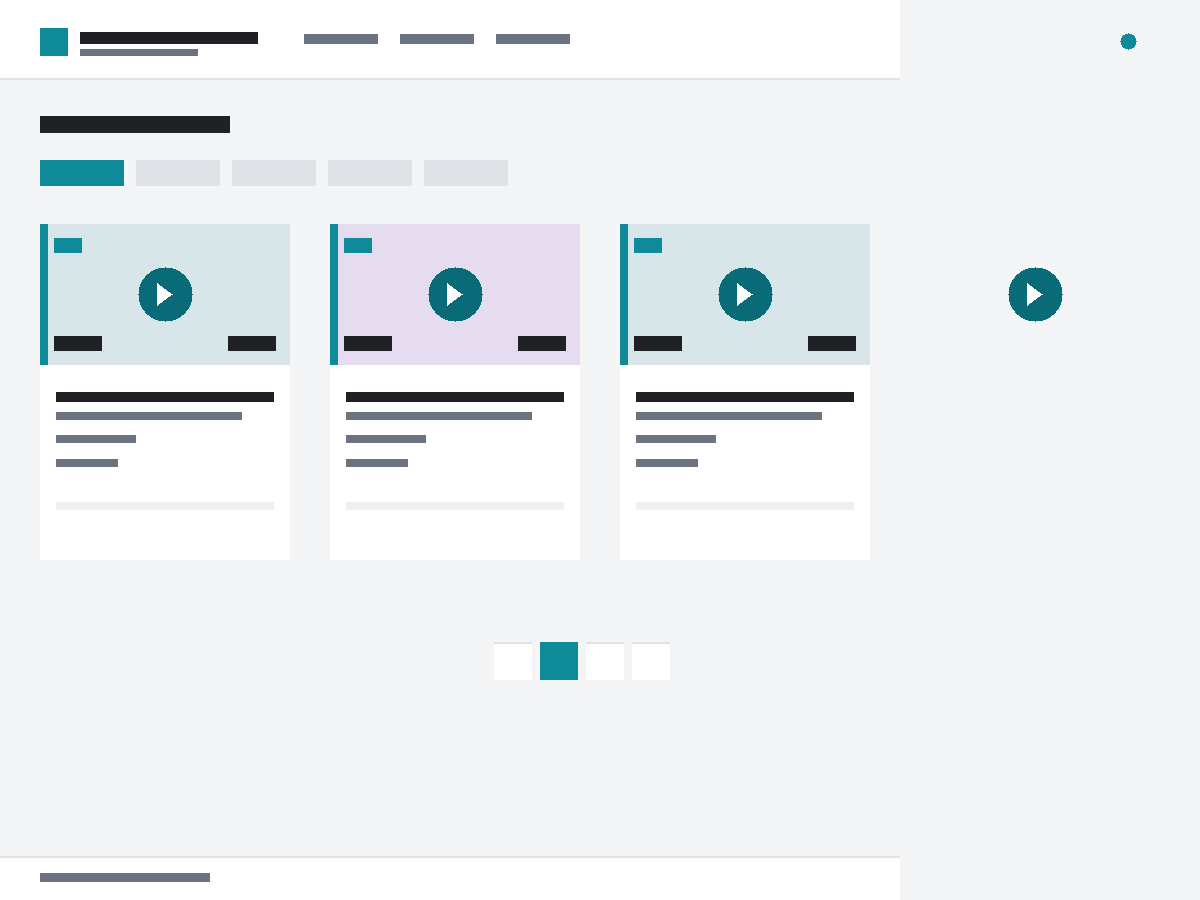
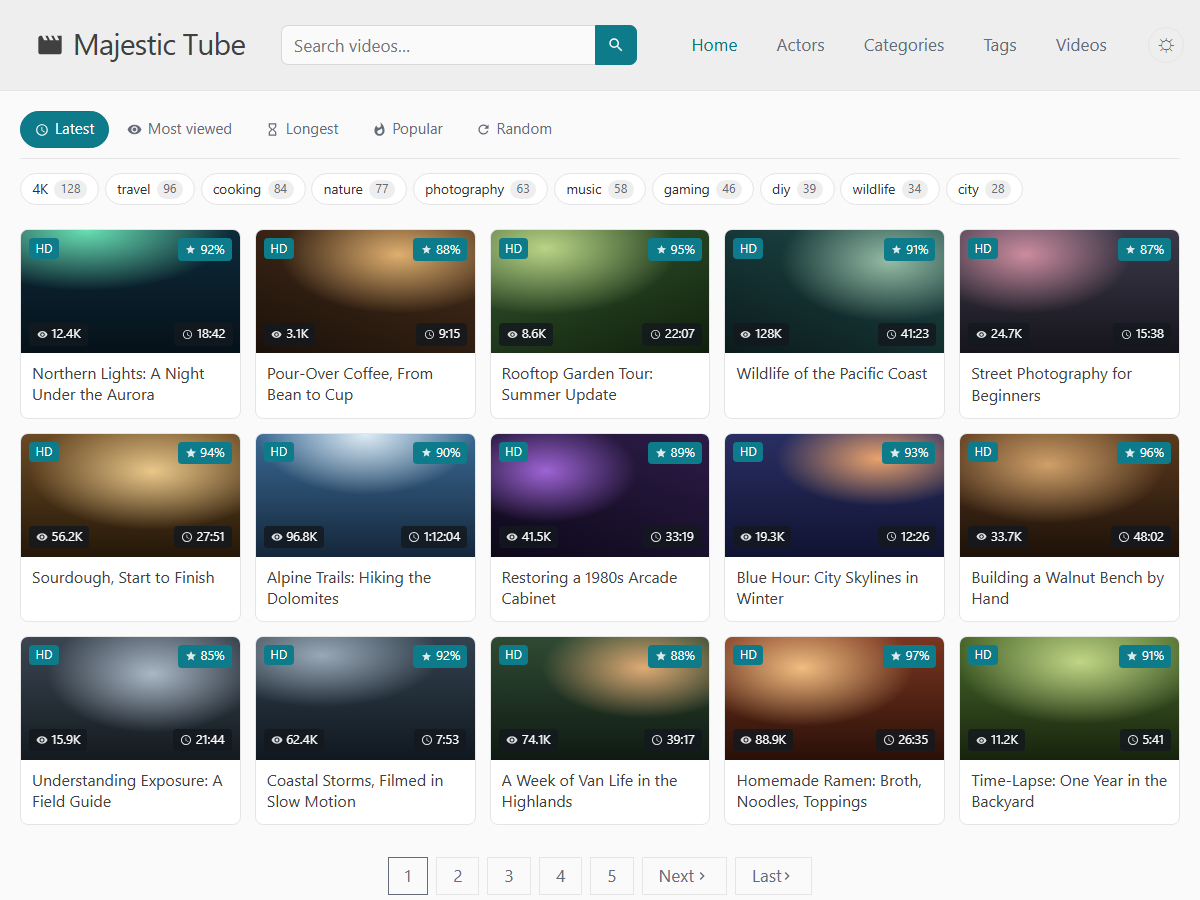
Render the theme's own front page into the screenshot, and open 2.5.8
The screenshot was a diagram of the layout: gray bars where the words go, a play
button drawn on every card, and the badges reduced to unlabeled marks. It
described a theme that no longer exists, and it is the first thing a site owner
sees in Appearance -> Themes.

It is the front page the theme actually renders now, drawn by the theme's own
stylesheet and typeface: the header row with its logo, search box, menu and
color-scheme toggle, the sort tabs with the one in use painted in the accent,
the tag strip with its counts, three rows of five cards carrying their HD mark,
length, view count and rating, and the paginator under the grid. The pictures
inside the cards are gradients, because a theme handed to other people may not
carry anyone's footage, and a gradient in the picture's place shows the frame,
the four badges and where each one sits.

The file is still a PNG at 1200x900, which is the size a theme screenshot is read
at. Both guides describe the release.

diff --git a/docs.html b/docs.html
@@ -444,7 +444,7 @@
     <nav class="toc" aria-label="User guide contents">
       <strong>Contents</strong>
       <ul>
-        <li><a href="#whats-new-257">What&rsquo;s new in 2.5.7</a></li>
+        <li><a href="#whats-new-258">What&rsquo;s new in 2.5.8</a></li>
         <li><a href="#requirements">Requirements</a></li>
         <li><a href="#installation">Installation</a></li>
         <li><a href="#quick-start">Quick start</a></li>
@@ -467,10 +467,15 @@
     </nav>
 
     <main>
-      <section id="whats-new-257">
+      <section id="whats-new-258">
         <p class="eyebrow">Release</p>
-        <h2>What&rsquo;s New in 2.5.7</h2>
-        <p class="section-intro">The guide last introduced 2.2.0. Everything published since is below, newest first: what changed, and what an update asks of you. In short, the theme draws its own icons, describes its videos to Google Video, hands search appearance to an SEO plugin, prints a row for the sites you link to, keeps advertising off the pages that ask a visitor to accept something, hands a retired browser-tab icon over to WordPress, keeps a locked video locked, stops one unlinkable tag from taking a page down with it, draws a random listing from a cache, ships the template a translation starts from, files a term that begins with a number the same way on every PHP, keeps a related-videos list to the grid the rest of the site is set to, asks a signed-out commenter to prove they are human, shows a section only the settings that apply to it, moves the player overlay&rsquo;s close box out of the corner an ad&rsquo;s own controls sit in, and gives the video sidebar a column wide enough for a 300x250 ad, on a desktop screen only.</p>
+        <h2>What&rsquo;s New in 2.5.8</h2>
+        <p class="section-intro">The guide last introduced 2.2.0. Everything published since is below, newest first: what changed, and what an update asks of you. In short, the theme draws its own icons, describes its videos to Google Video, hands search appearance to an SEO plugin, prints a row for the sites you link to, keeps advertising off the pages that ask a visitor to accept something, hands a retired browser-tab icon over to WordPress, keeps a locked video locked, stops one unlinkable tag from taking a page down with it, draws a random listing from a cache, ships the template a translation starts from, files a term that begins with a number the same way on every PHP, keeps a related-videos list to the grid the rest of the site is set to, asks a signed-out commenter to prove they are human, shows a section only the settings that apply to it, moves the player overlay&rsquo;s close box out of the corner an ad&rsquo;s own controls sit in, gives the video sidebar a column wide enough for a 300x250 ad on a desktop screen only, and replaces the theme&rsquo;s screenshot of the layout with the front page itself.</p>
+
+        <h3>2.5.8 &mdash; the screenshot shows the front page the theme renders</h3>
+        <p><strong>The theme&rsquo;s screenshot is the front page.</strong> It is the first thing a site owner sees in Appearance &rarr; Themes and the image a theme shop shows before anyone installs anything, and it was a diagram of the layout: gray bars where the words go, a play button drawn on every card, and the badges reduced to unlabeled marks. It is the theme&rsquo;s own front page now, drawn by the theme&rsquo;s own stylesheet and typeface &mdash; the header row with its logo, search box, menu and color-scheme toggle, the sort tabs with the one in use painted in the accent, the tag strip with its counts, three rows of five cards each carrying its picture, HD mark, length, view count and rating, and the paginator under the grid.</p>
+        <p><strong>The pictures inside the cards are gradients, on purpose.</strong> A theme is distributed to other people, so its screenshot may not carry anyone&rsquo;s footage. Each card gets a picture-shaped gradient that shows the frame, all four badges and where each one sits, which is what the card is about. The file is still a PNG at 1200x900 &mdash; the size a theme screenshot is read at.</p>
+        <p><strong>Also in this release:</strong> nothing on your site changes. No template, stylesheet, setting or hook is touched; this is the image the theme is listed with.</p>
 
         <h3>2.5.7 &mdash; the video sidebar is measured in ad slots</h3>
         <p><strong>The video sidebar is wide enough for a 300x250 ad.</strong> The column was capped at 280px, so a 300x250 creative was squeezed into the space that was left &mdash; 242px in a 280px column, which clips the creative and reports a frame size the ad network was never told about. The column now leaves 300px of clear width beside the box&rsquo;s own padding, which is where its 336px minimum comes from, so a 300x250 ad is served at the size it was sold at. See <a href="#appearance">Menus, widgets, and content</a>.</p>

diff --git a/style.css b/style.css
@@ -2,7 +2,7 @@
 Theme Name: Majestic Tube
 Author: Majestic Tube Contributors
 Description: A fast, lightweight video-focused WordPress theme built with clean, optimized code. Ships a self-hosted copy of the Inter typeface and of Video.js for the optional enhanced player.
-Version: 2.5.7
+Version: 2.5.8
 Requires at least: 6.5
 Tested up to: 7.1
 Requires PHP: 7.4

diff --git a/functions.php b/functions.php
@@ -10,7 +10,7 @@
 
 defined( 'ABSPATH' ) || exit;
 
-define( 'MAJESTIC_TUBE_VERSION', '2.5.7' );
+define( 'MAJESTIC_TUBE_VERSION', '2.5.8' );
 define( 'MAJESTIC_TUBE_DIR', get_template_directory() );
 define( 'MAJESTIC_TUBE_URI', get_template_directory_uri() );
 

diff --git a/README.md b/README.md
@@ -27,7 +27,7 @@ Everything you need to install, configure, populate, and manage a Majestic Tube 
 - [Reports and moderation](#video-reports-and-moderation)
 - [Legal pages](#legal-and-policy-pages)
 - [Routine maintenance](#routine-maintenance)
-- [What's new in 2.5.7](#whats-new-in-257)
+- [What's new in 2.5.8](#whats-new-in-258)
 - [Troubleshooting](#troubleshooting)
 - [FAQ](#frequently-asked-questions)
 - [Credits, license & support](#credits-license--support)
@@ -35,9 +35,17 @@ Everything you need to install, configure, populate, and manage a Majestic Tube 
 
 **Release**
 
-## What’s New in 2.5.7
+## What’s New in 2.5.8
 
-The guide last introduced 2.2.0. Everything published since is below, newest first: what changed, and what an update asks of you. In short, the theme draws its own icons, describes its videos to Google Video, hands search appearance to an SEO plugin, prints a row for the sites you link to, keeps advertising off the pages that ask a visitor to accept something, hands a retired browser-tab icon over to WordPress, keeps a locked video locked, stops one unlinkable tag from taking a page down with it, draws a random listing from a cache, ships the template a translation starts from, files a term that begins with a number the same way on every PHP, keeps a related-videos list to the grid the rest of the site is set to, asks a signed-out commenter to prove they are human, shows a section only the settings that apply to it, moves the player overlay's close box out of the corner an ad's own controls sit in, and gives the video sidebar a column wide enough for a 300x250 ad, on a desktop screen only.
+The guide last introduced 2.2.0. Everything published since is below, newest first: what changed, and what an update asks of you. In short, the theme draws its own icons, describes its videos to Google Video, hands search appearance to an SEO plugin, prints a row for the sites you link to, keeps advertising off the pages that ask a visitor to accept something, hands a retired browser-tab icon over to WordPress, keeps a locked video locked, stops one unlinkable tag from taking a page down with it, draws a random listing from a cache, ships the template a translation starts from, files a term that begins with a number the same way on every PHP, keeps a related-videos list to the grid the rest of the site is set to, asks a signed-out commenter to prove they are human, shows a section only the settings that apply to it, moves the player overlay's close box out of the corner an ad's own controls sit in, gives the video sidebar a column wide enough for a 300x250 ad on a desktop screen only, and replaces the theme's screenshot of the layout with the front page itself.
+
+### 2.5.8 — the screenshot shows the front page the theme renders
+
+**The theme's screenshot is the front page.** It is the first thing a site owner sees in Appearance → Themes and the image a theme shop shows before anyone installs anything, and it was a diagram of the layout: gray bars where the words go, a play button drawn on every card, and the badges reduced to unlabeled marks. It is the theme's own front page now, drawn by the theme's own stylesheet and typeface — the header row with its logo, search box, menu and color-scheme toggle, the sort tabs with the one in use painted in the accent, the tag strip with its counts, three rows of five cards each carrying its picture, HD mark, length, view count and rating, and the paginator under the grid.
+
+**The pictures inside the cards are gradients, on purpose.** A theme is distributed to other people, so its screenshot may not carry anyone's footage. Each card gets a picture-shaped gradient that shows the frame, all four badges and where each one sits, which is what the card is about. The file is still a PNG at 1200x900 — the size a theme screenshot is read at.
+
+**Also in this release:** nothing on your site changes. No template, stylesheet, setting or hook is touched; this is the image the theme is listed with.
 
 ### 2.5.7 — the video sidebar is measured in ad slots
 
